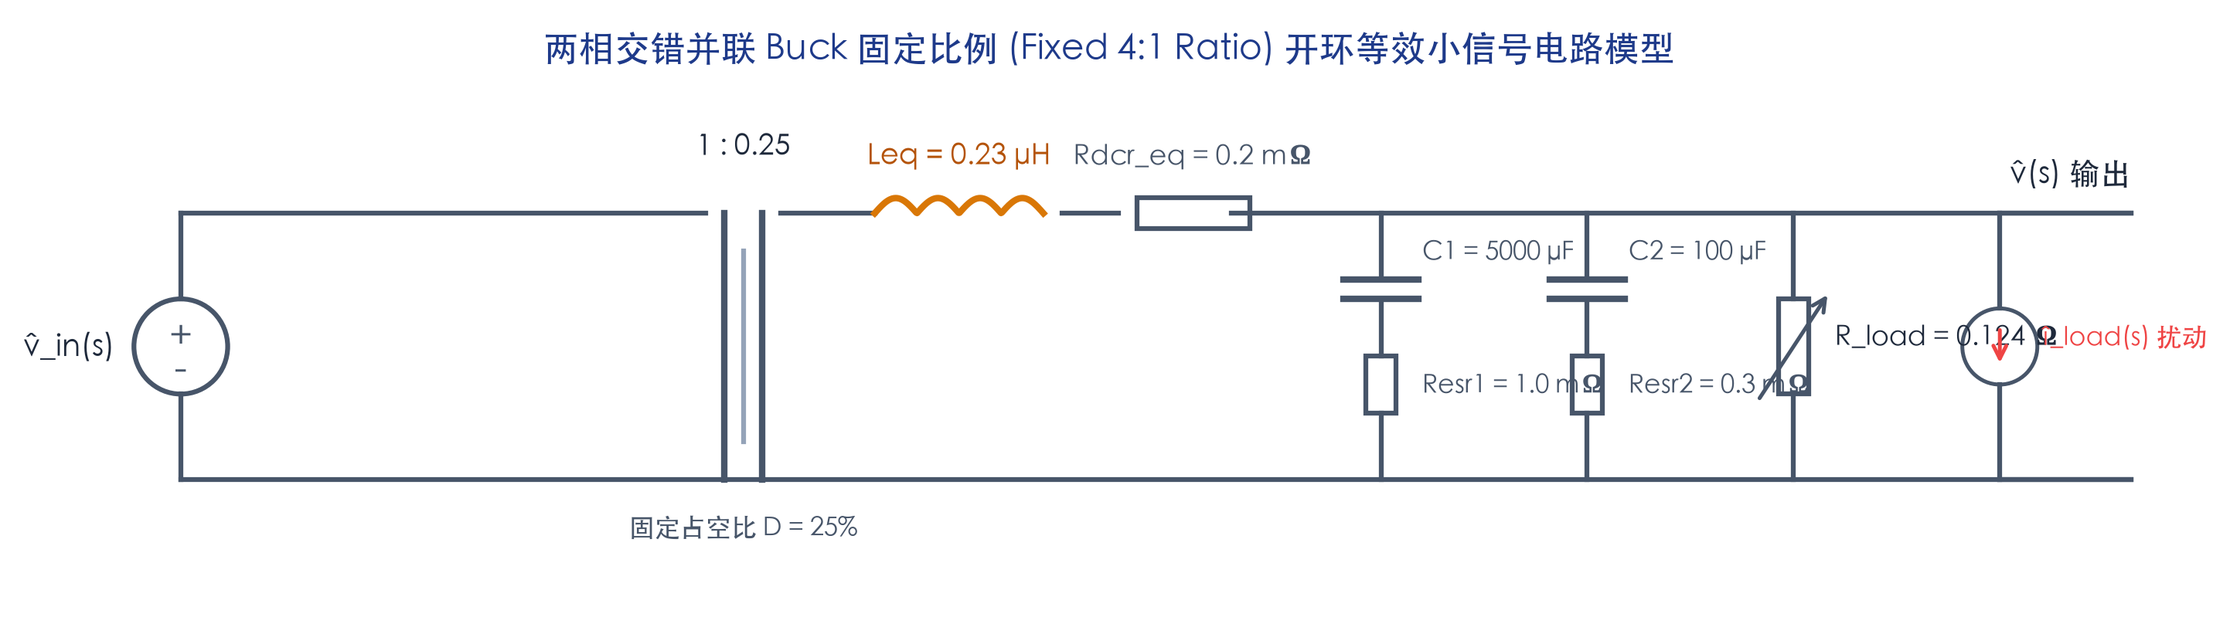
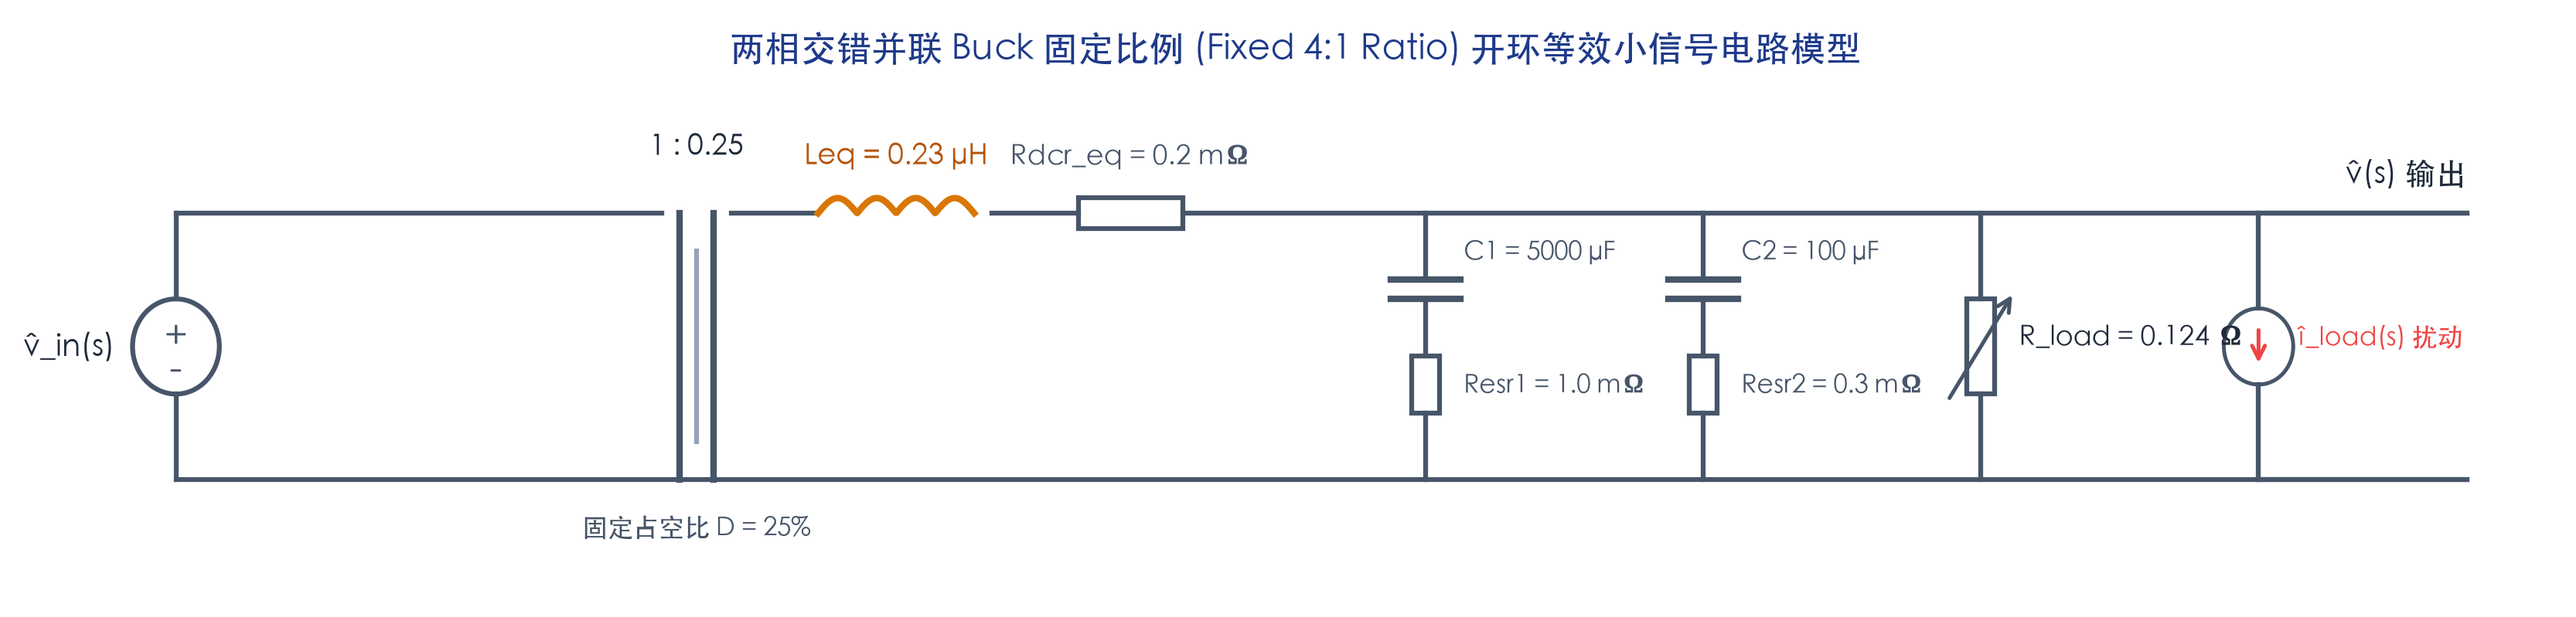
Further widen open-loop schematic to 14 inches to completely eliminate all label overlaps

diff --git a/DesignDoc/generate_open_loop_schematic.py b/DesignDoc/generate_open_loop_schematic.py
@@ -7,14 +7,14 @@ def draw_open_loop_schematic():
     plt.rcParams['font.sans-serif'] = ['STHeiti', 'PingFang SC', 'Heiti TC', 'Arial Unicode MS', 'sans-serif']
     plt.rcParams['axes.unicode_minus'] = False
     
-    # Canvas size matching the closed-loop one
-    fig, ax = plt.subplots(figsize=(12, 3.2))
-    ax.set_xlim(0, 11.5)
+    # Canvas size: increased xmax to 14.5 and width to 14 inches for a very spacious layout
+    fig, ax = plt.subplots(figsize=(14, 3.2))
+    ax.set_xlim(0, 14.5)
     ax.set_ylim(1.2, 4.2)
     ax.axis('off')
     
     # Title
-    ax.text(5.75, 4.0, '两相交错并联 Buck 固定比例 (Fixed 4:1 Ratio) 开环等效小信号电路模型', fontsize=11, fontweight='bold', color='#1E3A8A', ha='center')
+    ax.text(7.25, 4.0, '两相交错并联 Buck 固定比例 (Fixed 4:1 Ratio) 开环等效小信号电路模型', fontsize=11, fontweight='bold', color='#1E3A8A', ha='center')
     
     # ---------------------------------------------------------
     # 1. Main Power Stage Rails (y = 3.2 is top, y = 1.8 is bottom)
@@ -23,12 +23,12 @@ def draw_open_loop_schematic():
     y_bot = 1.8
     
     # Bottom rail (Ground)
-    plt.plot([0.8, 11.2], [y_bot, y_bot], color='#475569', lw=1.5)
-    # Top rail sections (connected straight from input source to transformer)
+    plt.plot([0.8, 14.0], [y_bot, y_bot], color='#475569', lw=1.5)
+    # Top rail sections
     plt.plot([0.8, 3.6], [y_top, y_top], color='#475569', lw=1.5)
     plt.plot([4.0, 4.5], [y_top, y_top], color='#475569', lw=1.5)
-    plt.plot([5.5, 5.8], [y_top, y_top], color='#475569', lw=1.5)
-    plt.plot([6.4, 11.2], [y_top, y_top], color='#475569', lw=1.5)
+    plt.plot([5.5, 6.0], [y_top, y_top], color='#475569', lw=1.5)
+    plt.plot([6.6, 14.0], [y_top, y_top], color='#475569', lw=1.5)
     
     # ---------------------------------------------------------
     # 2. Components
@@ -63,16 +63,16 @@ def draw_open_loop_schematic():
     plt.plot(l_x, l_y, color='#D97706', lw=2)
     ax.text((lx_start+lx_end)/2, y_top + 0.25, 'Leq = 0.23 μH', fontsize=9, fontweight='bold', color='#B45309', ha='center')
     
-    # (d) Resistor Rdcr_eq = 0.2 mOhm
-    rx_start = 5.9
-    rx_end = 6.5
+    # (d) Resistor Rdcr_eq = 0.2 mOhm (Shifted right to 6.0-6.6 to give plenty of space)
+    rx_start = 6.0
+    rx_end = 6.6
     rect_r = patches.Rectangle((rx_start, y_top - 0.08), rx_end - rx_start, 0.16,
                                edgecolor='#475569', facecolor='#FFFFFF', lw=1.5)
     ax.add_patch(rect_r)
     ax.text((rx_start+rx_end)/2, y_top + 0.25, 'Rdcr_eq = 0.2 mΩ', fontsize=8.5, color='#475569', ha='center')
     
-    # (e) Capacitor C1 = 5000 uF
-    c1_x = 7.2
+    # (e) Capacitor C1 = 5000 uF (Shifted right to 8.0 to avoid any overlaps)
+    c1_x = 8.0
     plt.plot([c1_x, c1_x], [y_top, y_top - 0.35], color='#475569', lw=1.5)
     plt.plot([c1_x - 0.2, c1_x + 0.2], [y_top - 0.35, y_top - 0.35], color='#475569', lw=2)
     plt.plot([c1_x - 0.2, c1_x + 0.2], [y_top - 0.45, y_top - 0.45], color='#475569', lw=2)
@@ -85,8 +85,8 @@ def draw_open_loop_schematic():
     ax.text(c1_x + 0.22, y_top - 0.25, 'C1 = 5000 μF', fontsize=8, color='#475569')
     ax.text(c1_x + 0.22, y_bot + 0.45, 'Resr1 = 1.0 mΩ', fontsize=8, color='#475569')
     
-    # (f) Capacitor C2 = 100 uF
-    c2_x = 8.3
+    # (f) Capacitor C2 = 100 uF (Shifted right to 9.6)
+    c2_x = 9.6
     plt.plot([c2_x, c2_x], [y_top, y_top - 0.35], color='#475569', lw=1.5)
     plt.plot([c2_x - 0.2, c2_x + 0.2], [y_top - 0.35, y_top - 0.35], color='#475569', lw=2)
     plt.plot([c2_x - 0.2, c2_x + 0.2], [y_top - 0.45, y_top - 0.45], color='#475569', lw=2)
@@ -99,8 +99,8 @@ def draw_open_loop_schematic():
     ax.text(c2_x + 0.22, y_top - 0.25, 'C2 = 100 μF', fontsize=8, color='#475569')
     ax.text(c2_x + 0.22, y_bot + 0.45, 'Resr2 = 0.3 mΩ', fontsize=8, color='#475569')
     
-    # (g) Load Resistor R_load = 0.124
-    rl_x = 9.4
+    # (g) Load Resistor R_load = 0.124 (Shifted right to 11.2)
+    rl_x = 11.2
     rect_rl = patches.Rectangle((rl_x - 0.08, (y_top+y_bot)/2 - 0.25), 0.16, 0.5,
                                 edgecolor='#475569', facecolor='#FFFFFF', lw=1.5)
     ax.add_patch(rect_rl)
@@ -111,8 +111,8 @@ def draw_open_loop_schematic():
     plt.plot([rl_x, rl_x], [y_top, (y_top+y_bot)/2 + 0.25], color='#475569', lw=1.5)
     ax.text(rl_x + 0.22, (y_top+y_bot)/2, 'R_load = 0.124 Ω', fontsize=8.5, color='#1E293B')
     
-    # (h) Dependent Current Source i_load(s)
-    il_x = 10.5
+    # (h) Dependent Current Source i_load(s) (Shifted right to 12.8)
+    il_x = 12.8
     circle_il = patches.Circle((il_x, (y_top+y_bot)/2), 0.2, edgecolor='#475569', facecolor='#FFFFFF', lw=1.2)
     ax.add_patch(circle_il)
     ax.annotate('', xy=(il_x, (y_top+y_bot)/2 - 0.12), xytext=(il_x, (y_top+y_bot)/2 + 0.12),
@@ -121,15 +121,15 @@ def draw_open_loop_schematic():
     plt.plot([il_x, il_x], [y_top, (y_top+y_bot)/2 + 0.2], color='#475569', lw=1.5)
     ax.text(il_x + 0.22, (y_top+y_bot)/2, 'î_load(s) 扰动', fontsize=8, color='#EF4444')
     
-    # Output Voltage node
-    plt.plot([10.5, 11.2], [y_top, y_top], color='#475569', lw=1.5)
-    plt.plot([10.5, 11.2], [y_bot, y_bot], color='#475569', lw=1.5)
-    ax.text(11.2, y_top + 0.15, 'v̂(s) 输出', fontsize=9.5, fontweight='bold', color='#1E293B', ha='right')
+    # Output Voltage node (Shifted terminal right to 14.0)
+    plt.plot([12.8, 14.0], [y_top, y_top], color='#475569', lw=1.5)
+    plt.plot([12.8, 14.0], [y_bot, y_bot], color='#475569', lw=1.5)
+    ax.text(14.0, y_top + 0.15, 'v̂(s) 输出', fontsize=9.5, fontweight='bold', color='#1E293B', ha='right')
     
     plt.savefig("/Users/walter/Downloads/WPSSync/Work/3.Engineering/Ctrl/2PhBuck/DesignDoc/open_loop_schematic.png",
                 dpi=300, bbox_inches='tight')
     plt.close()
-    print("Fixed ratio open-loop schematic successfully drawn and saved.")
+    print("Fixed ratio open-loop schematic successfully drawn with ultra-wide spacing.")
 
 if __name__ == '__main__':
     draw_open_loop_schematic()
